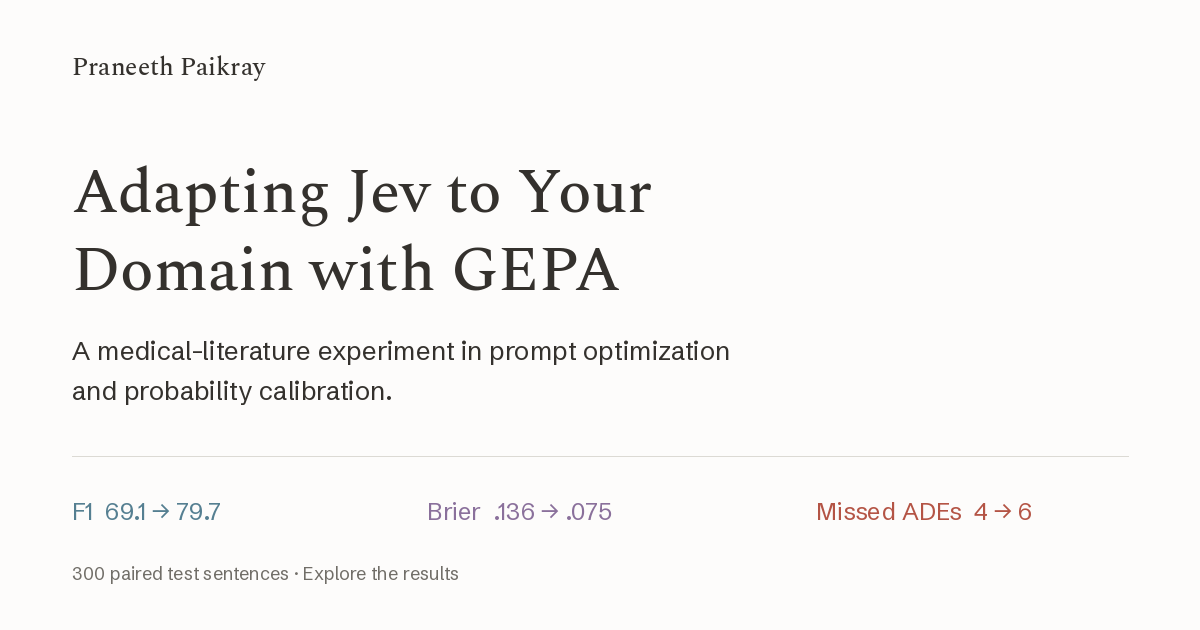
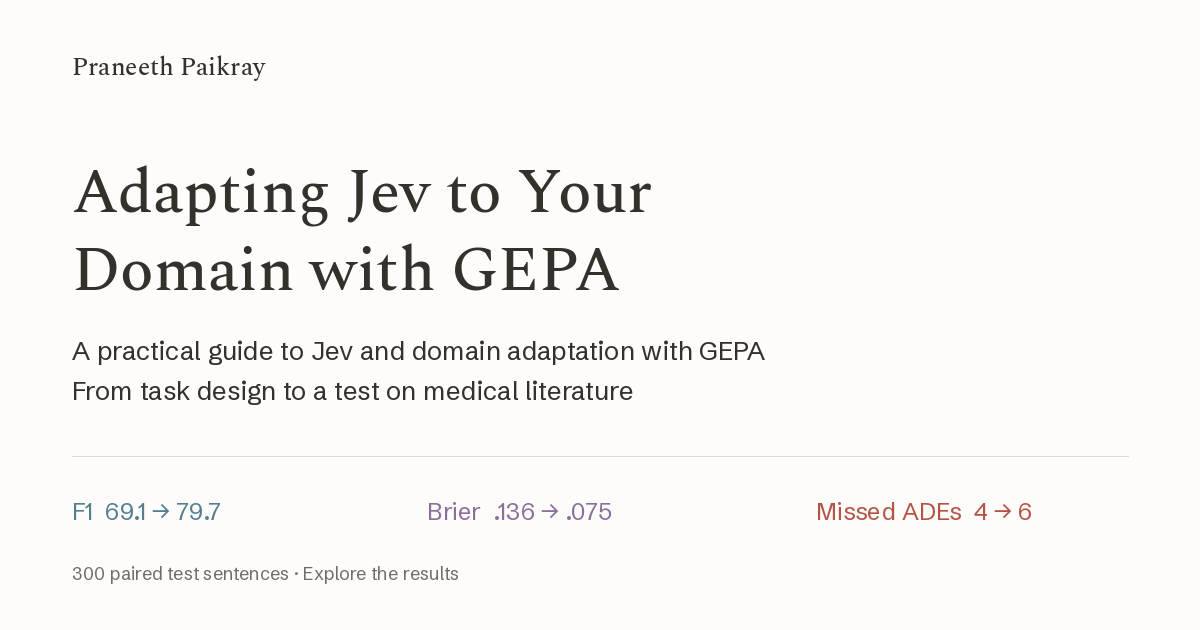
Add open article contents, section dividers, and broader Jev subtitle
Make the contents list visible on mobile and desktop with concise section links. Add subtle rules between sections, and frame the subtitle around Jev and domain adaptation with medical literature as the test case. Keep the article, homepage, RSS, metadata, and sharing card consistent.

Verified the Astro build, mobile and desktop layout, all contents and citation targets, and nine interactive viewers.

Changed region(s): [[0.0925, 0.5429, 0.6475, 0.573], [0.0617, 0.6032, 0.5242, 0.6635]]

diff --git a/src/styles/global.css b/src/styles/global.css
@@ -1,8 +1,10 @@
 @import url('/fonts/fonts.css');
 :root{--paper:oklch(.992 .002 90);--panel:oklch(.999 .001 90);--panel-2:oklch(.967 .003 90);--ink:oklch(.25 .01 60);--ink-soft:oklch(.45 .008 62);--muted:oklch(.57 .007 65);--hair:oklch(.905 .004 80);--hair-2:oklch(.84 .005 80);--accent:oklch(.45 .055 220);--wash:oklch(.955 .016 218);--good:#4e8766;--bad:#b45445;--original:#557f91;--optimized:#8a709b;--baseline:#a2a5a4;--serif:'Spectral',Georgia,serif;--sans:'Schibsted Grotesk',system-ui,sans-serif;--mono:'Fragment Mono',ui-monospace,monospace;--measure:700px}
-*{box-sizing:border-box}html{scroll-behavior:smooth;scroll-padding-top:85px;-webkit-font-smoothing:antialiased;text-rendering:optimizeLegibility}body{margin:0;background:var(--paper);color:var(--ink);font:16px/1.6 var(--sans)}a{color:var(--accent);text-underline-offset:3px;text-decoration-thickness:1px}a:hover{color:var(--ink)}button,input,select{font:inherit}button,select,summary{cursor:pointer}button,input,select{border-radius:3px}button:disabled{cursor:default;opacity:.5}:focus-visible{outline:2px solid var(--accent);outline-offset:3px}::selection{background:var(--wash)}img,svg{max-width:100%}h1,h2,h3{font-family:var(--serif);font-weight:500;line-height:1.2;letter-spacing:-.025em}button{color:var(--ink);background:var(--panel);border:1px solid var(--hair-2);padding:7px 11px}button:hover{background:var(--wash)}code{font-family:var(--mono);font-size:.82em}.container{width:min(100% - 48px,var(--measure));margin-inline:auto}.site-header{position:sticky;top:0;z-index:30;border-bottom:1px solid var(--hair);background:color-mix(in oklch,var(--paper) 94%,transparent);backdrop-filter:blur(8px)}.header-inner{display:flex;align-items:center;justify-content:space-between;min-height:64px}.brand{font:500 20px var(--serif);color:var(--ink);text-decoration:none}.site-nav{display:flex;gap:22px;font-size:13px}.site-nav a{color:var(--ink-soft);text-decoration:none}.site-nav a[aria-current]{color:var(--ink)}#reading-progress{height:2px;width:0;position:absolute;bottom:-1px;background:var(--original)}.site-footer{width:min(100% - 48px,var(--measure));margin:70px auto 0;border-top:1px solid var(--hair);padding:28px 0 40px;display:flex;justify-content:space-between;gap:20px;font:11px/1.7 var(--mono);color:var(--muted)}.site-footer nav{display:flex;gap:18px}.site-footer p{margin:0}.skip-link{position:fixed;left:12px;top:-60px;z-index:90;background:white;padding:8px 12px}.skip-link:focus{top:8px}.home{padding-top:82px;min-height:calc(100vh - 237px)}.home h1{font-size:37px;margin:0 0 22px}.intro{font:20px/1.7 var(--serif);max-width:650px}.intro p{margin:0 0 16px}.intro-links{font:13px var(--sans);display:flex;gap:20px;margin-top:26px}.writing-list{margin-top:70px}.section-label{font:11px var(--mono);letter-spacing:.06em;text-transform:uppercase;color:var(--muted);margin-bottom:20px}.post-link{display:block;border-top:1px solid var(--hair);border-bottom:1px solid var(--hair);padding:24px 0;text-decoration:none;color:inherit}.post-link h2{font-size:25px;margin:0 0 9px}.post-link p{font:16px/1.6 var(--serif);color:var(--ink-soft);margin:0 0 14px}.post-link .meta{font:11px var(--mono);color:var(--muted)}.post-link:hover h2{color:var(--accent)}.article-header{padding-top:58px;margin-bottom:34px}.article-header h1{font-size:clamp(34px,4.5vw,48px);line-height:1.12;margin:0 0 18px;max-width:690px}.article-deck{font:italic 21px/1.5 var(--serif);color:var(--ink-soft);margin:0 0 23px}.article-meta{display:flex;gap:9px 18px;flex-wrap:wrap;font:11px/1.7 var(--mono);color:var(--muted)}.article-links{display:flex;gap:18px;flex-wrap:wrap;font:12px var(--sans);margin-top:19px}.contents{padding:14px 0;border-top:1px solid var(--hair);border-bottom:1px solid var(--hair);margin:28px 0}.contents summary{font:12px var(--mono);color:var(--ink-soft)}.contents ul{columns:2;column-gap:34px;list-style:none;padding:0;margin:16px 0 0}.contents li{font:13px/1.5 var(--sans);margin:0 0 9px;break-inside:avoid}.contents a{text-decoration:none}.prose{font:19px/1.7 var(--serif);display:grid;grid-template-columns:[full-start] minmax(24px,1fr) [content-start] min(var(--measure),100% - 48px) [content-end] minmax(24px,1fr) [full-end];max-width:none}.prose>*{grid-column:content;min-width:0}.prose p{margin:0 0 19px}.prose h2{font-size:29px;margin:46px 0 18px;scroll-margin-top:85px}.prose h3{font-size:23px;margin:28px 0 12px}.prose ul,.prose ol{padding-left:25px}.prose blockquote{margin:8px 0 26px;padding:0 0 0 22px;border-left:2px solid var(--optimized);font-style:italic;color:var(--ink-soft)}.prose blockquote p{margin:0}.prose pre{background:var(--panel-2);border:1px solid var(--hair);padding:20px 22px;overflow:auto;font:13px/1.7 var(--mono);margin:8px 0 24px;border-radius:2px}.prose pre code{font:inherit}.prose :not(pre)>code{background:var(--panel-2);border:1px solid var(--hair);border-radius:2px;padding:1px 4px;overflow-wrap:anywhere}.codehilite pre{margin:0}.codehilite{margin:6px 0 26px;min-width:0}.table-wrap{overflow:auto;margin:6px 0 13px}.prose table{width:100%;border-collapse:collapse;font:12px/1.6 var(--sans)}.prose th{font:10px/1.5 var(--mono);text-transform:uppercase;letter-spacing:.025em;text-align:left;padding:8px 12px 10px 0;border-bottom:1px solid var(--hair-2);color:var(--muted)}.prose td{padding:10px 12px 10px 0;border-bottom:1px solid var(--hair);vertical-align:top;color:var(--ink-soft)}.prose td:not(:first-child){font-variant-numeric:tabular-nums}.prose figure{margin:15px 0 25px}.prose figure.breakout,.prose .interactive{grid-column:full;width:min(960px,100% - 32px);justify-self:center}.prose figure img{display:block;width:100%;height:auto}.prose figure.diagram{max-width:900px}.figure-tools{display:flex;justify-content:flex-end;gap:18px;font:11px var(--mono);padding:7px 0}.caption{font:12px/1.65 var(--sans);color:var(--ink-soft);margin:0 0 25px!important}.caption em{font-style:normal}.interactive{border:1px solid var(--hair);background:var(--panel);margin:18px 0 28px;font:14px/1.5 var(--sans);border-radius:3px}.interactive:empty{display:none}.widget-head{display:flex;align-items:baseline;justify-content:space-between;gap:20px;padding:18px 22px 14px;border-bottom:1px solid var(--hair)}.widget-head h3{font:500 15px var(--sans);letter-spacing:0;margin:0}.widget-head span,.widget-note,.micro{font:11px/1.65 var(--mono);color:var(--muted)}.widget-note{padding:13px 22px;border-top:1px solid var(--hair);margin:0!important}.widget-body{padding:20px 22px}.controls{display:flex;flex-wrap:wrap;gap:14px;align-items:flex-end;margin-bottom:18px}.controls label{display:flex;flex-direction:column;gap:6px;font:10px var(--mono);color:var(--muted)}.controls input,.controls select{font:12px var(--sans);color:var(--ink);border:1px solid var(--hair-2);padding:8px 9px;background:var(--panel);max-width:100%}.controls input[type=search]{min-width:210px}.controls .grow{flex:1}.controls input[type=range]{padding:0;accent-color:var(--original);min-width:200px}.tab-row{display:flex;gap:4px;flex-wrap:wrap}.tab-row button{font:11px var(--mono);border-color:transparent;background:transparent;padding:6px 9px}.tab-row button[aria-pressed=true]{border-color:var(--hair-2);background:var(--panel-2);color:var(--ink)}.browser{display:grid;grid-template-columns:285px minmax(0,1fr);border-top:1px solid var(--hair);min-height:330px}.browser-list{border-right:1px solid var(--hair);max-height:385px;overflow:auto}.browser-row{display:block;text-align:left;width:100%;border:0;border-bottom:1px solid var(--hair);border-radius:0;padding:12px 15px;font:12px/1.55 var(--sans);background:transparent}.browser-row[aria-pressed=true]{background:var(--wash);box-shadow:inset 3px 0 var(--original)}.browser-row small{display:block;font:10px var(--mono);color:var(--muted);margin-top:5px}.browser-row .badge{float:right}.browser-detail{padding:22px;min-width:0}.badge{font:10px var(--mono);border:1px solid var(--hair-2);border-radius:3px;padding:2px 6px;color:var(--ink-soft)}.badge.positive{color:var(--bad);border-color:#d6aea8}.sentence{font:20px/1.6 var(--serif);min-height:70px;margin:19px 0!important;overflow-wrap:anywhere}.source-status{font:11px var(--sans);color:var(--muted)}.source-link{font:11px var(--sans)}.pagination{display:flex;justify-content:space-between;align-items:center;gap:10px;padding:12px 20px;border-top:1px solid var(--hair);font:11px var(--mono)}.pagination button{font:11px var(--mono)}.kv-grid{display:grid;grid-template-columns:repeat(2,minmax(0,1fr));gap:15px;margin:20px 0}.kv-grid dt{font:10px/1.5 var(--mono);color:var(--muted)}.kv-grid dd{font:21px/1.4 var(--sans);margin:5px 0 0;font-variant-numeric:tabular-nums}.kv-grid .hash{font:10px/1.6 var(--mono);overflow-wrap:anywhere}.plot-scroll{overflow:auto;max-width:100%}.plot{width:100%;min-width:530px;display:block;font-family:var(--mono);font-size:11px;color:var(--muted);overflow:visible}.plot .grid{stroke:var(--hair);stroke-width:1}.plot .axis{stroke:var(--hair-2);stroke-width:1}.plot text{fill:var(--muted)}.plot .value{fill:var(--ink)}.plot-point{cursor:pointer;outline:none}.plot-point:focus,.plot-point:hover{stroke:var(--ink);stroke-width:3}.plot-readout{font:11px/1.6 var(--mono);min-height:38px;padding:9px 12px;background:var(--panel-2);color:var(--ink-soft);margin-top:8px}.legend{display:flex;gap:18px;flex-wrap:wrap;font:11px var(--sans);margin-bottom:18px}.legend span{display:inline-flex;align-items:center;gap:6px}.dot{width:8px;height:8px;border-radius:50%;display:inline-block}.stat-row{display:grid;grid-template-columns:repeat(3,1fr);gap:20px;padding:16px 0 24px}.stat-row strong{font:30px var(--serif);display:block;font-variant-numeric:tabular-nums;margin-bottom:4px}.stat-row span{font:11px var(--sans);color:var(--muted)}.stat-row .risk strong{color:var(--bad)}.bar-label{display:flex;justify-content:space-between;font:11px var(--sans);margin:16px 0 7px}.stack-bar{height:17px;display:flex;overflow:hidden;border-radius:2px;background:var(--panel-2)}.stack-bar i{height:100%;display:block}.prompt-grid{display:grid;grid-template-columns:1fr 1fr;gap:20px;margin-top:20px}.prompt-panel{border:1px solid var(--hair);padding:18px;min-width:0}.prompt-panel h4{font:11px var(--mono);margin:0 0 12px;color:var(--muted)}.prompt-panel p{font:14px/1.65 var(--serif);white-space:pre-wrap;margin:0 0 18px}.prompt-panel .prompt-label{font:10px var(--mono);color:var(--muted);margin-bottom:6px}.candidate-buttons{display:flex;flex-wrap:wrap;gap:7px;margin:12px 0}.candidate-buttons button{font:11px var(--mono)}.candidate-buttons button[aria-pressed=true]{border-color:var(--optimized);background:#f1edf3}.matrix-pair{display:grid;grid-template-columns:1fr 1fr;gap:32px;max-width:680px;margin:8px auto 22px}.matrix h4{font:12px var(--sans);text-align:center;margin:0 0 12px}.matrix-grid{display:grid;grid-template-columns:1fr 1fr;gap:3px}.matrix-grid button{border:0;font:27px var(--serif);padding:14px 8px;border-radius:1px;background:#eaf0ee;min-width:0}.matrix-grid button small{font:10px var(--sans);display:block;color:var(--ink-soft)}.matrix-grid .wrong{background:#f7eeeb}.matrix-grid button[aria-pressed=true]{outline:2px solid var(--ink)}.empty-state{padding:30px;font:14px var(--serif);color:var(--muted)}.source-warning{color:var(--bad)}.inline-link{font:11px var(--mono);background:transparent;border:0;text-decoration:underline;color:var(--accent);padding:4px 0}.two-column{display:grid;grid-template-columns:1fr 1fr;gap:30px}.not-found{padding-top:80px;min-height:60vh}dialog{border:1px solid var(--hair);width:min(1200px,95vw);max-height:95vh;padding:20px;background:var(--panel)}dialog::backdrop{background:#171d23aa}dialog img{display:block;width:100%}dialog .close{float:right;font:11px var(--mono);margin-bottom:10px}.download-note{font:12px var(--sans);padding:16px 0;border-top:1px solid var(--hair)}
+*{box-sizing:border-box}html{scroll-behavior:smooth;scroll-padding-top:85px;-webkit-font-smoothing:antialiased;text-rendering:optimizeLegibility}body{margin:0;background:var(--paper);color:var(--ink);font:16px/1.6 var(--sans)}a{color:var(--accent);text-underline-offset:3px;text-decoration-thickness:1px}a:hover{color:var(--ink)}button,input,select{font:inherit}button,select,summary{cursor:pointer}button,input,select{border-radius:3px}button:disabled{cursor:default;opacity:.5}:focus-visible{outline:2px solid var(--accent);outline-offset:3px}::selection{background:var(--wash)}img,svg{max-width:100%}h1,h2,h3{font-family:var(--serif);font-weight:500;line-height:1.2;letter-spacing:-.025em}button{color:var(--ink);background:var(--panel);border:1px solid var(--hair-2);padding:7px 11px}button:hover{background:var(--wash)}code{font-family:var(--mono);font-size:.82em}.container{width:min(100% - 48px,var(--measure));margin-inline:auto}.site-header{position:sticky;top:0;z-index:30;border-bottom:1px solid var(--hair);background:color-mix(in oklch,var(--paper) 94%,transparent);backdrop-filter:blur(8px)}.header-inner{display:flex;align-items:center;justify-content:space-between;min-height:64px}.brand{font:500 20px var(--serif);color:var(--ink);text-decoration:none}.site-nav{display:flex;gap:22px;font-size:13px}.site-nav a{color:var(--ink-soft);text-decoration:none}.site-nav a[aria-current]{color:var(--ink)}#reading-progress{height:2px;width:0;position:absolute;bottom:-1px;background:var(--original)}.site-footer{width:min(100% - 48px,var(--measure));margin:70px auto 0;border-top:1px solid var(--hair);padding:28px 0 40px;display:flex;justify-content:space-between;gap:20px;font:11px/1.7 var(--mono);color:var(--muted)}.site-footer nav{display:flex;gap:18px}.site-footer p{margin:0}.skip-link{position:fixed;left:12px;top:-60px;z-index:90;background:white;padding:8px 12px}.skip-link:focus{top:8px}.home{padding-top:82px;min-height:calc(100vh - 237px)}.home h1{font-size:37px;margin:0 0 22px}.intro{font:20px/1.7 var(--serif);max-width:650px}.intro p{margin:0 0 16px}.intro-links{font:13px var(--sans);display:flex;gap:20px;margin-top:26px}.writing-list{margin-top:70px}.section-label{font:11px var(--mono);letter-spacing:.06em;text-transform:uppercase;color:var(--muted);margin-bottom:20px}.post-link{display:block;border-top:1px solid var(--hair);border-bottom:1px solid var(--hair);padding:24px 0;text-decoration:none;color:inherit}.post-link h2{font-size:25px;margin:0 0 9px}.post-link p{font:16px/1.6 var(--serif);color:var(--ink-soft);margin:0 0 14px}.post-link .meta{font:11px var(--mono);color:var(--muted)}.post-link:hover h2{color:var(--accent)}.article-header{padding-top:58px;margin-bottom:34px}.article-header h1{font-size:clamp(34px,4.5vw,48px);line-height:1.12;margin:0 0 18px;max-width:690px}.article-deck{font:italic 21px/1.5 var(--serif);color:var(--ink-soft);margin:0 0 23px}.article-meta{display:flex;gap:9px 18px;flex-wrap:wrap;font:11px/1.7 var(--mono);color:var(--muted)}.article-links{display:flex;gap:18px;flex-wrap:wrap;font:12px var(--sans);margin-top:19px}.contents{padding:27px 0 29px;border-top:1px solid var(--hair);border-bottom:1px solid var(--hair);margin:32px 0 0}.contents-label{font:11px/1.5 var(--mono);letter-spacing:.08em;text-transform:uppercase;color:var(--muted);margin:0 0 17px}.contents ul{list-style:none;padding:0;margin:0;display:grid;gap:4px}.contents li{font:16px/1.5 var(--sans);margin:0}.contents a{display:block;width:fit-content;max-width:100%;padding:5px 0;text-decoration:none;color:var(--ink-soft)}.contents a:hover,.contents a:focus-visible{color:var(--accent);text-decoration:underline}.prose{font:19px/1.7 var(--serif);display:grid;grid-template-columns:[full-start] minmax(24px,1fr) [content-start] min(var(--measure),100% - 48px) [content-end] minmax(24px,1fr) [full-end];max-width:none}.prose>*{grid-column:content;min-width:0}.prose p{margin:0 0 19px}.prose h2{font-size:29px;margin:46px 0 18px;scroll-margin-top:85px}.prose h3{font-size:23px;margin:28px 0 12px}.prose ul,.prose ol{padding-left:25px}.prose blockquote{margin:8px 0 26px;padding:0 0 0 22px;border-left:2px solid var(--optimized);font-style:italic;color:var(--ink-soft)}.prose blockquote p{margin:0}.prose pre{background:var(--panel-2);border:1px solid var(--hair);padding:20px 22px;overflow:auto;font:13px/1.7 var(--mono);margin:8px 0 24px;border-radius:2px}.prose pre code{font:inherit}.prose :not(pre)>code{background:var(--panel-2);border:1px solid var(--hair);border-radius:2px;padding:1px 4px;overflow-wrap:anywhere}.codehilite pre{margin:0}.codehilite{margin:6px 0 26px;min-width:0}.table-wrap{overflow:auto;margin:6px 0 13px}.prose table{width:100%;border-collapse:collapse;font:12px/1.6 var(--sans)}.prose th{font:10px/1.5 var(--mono);text-transform:uppercase;letter-spacing:.025em;text-align:left;padding:8px 12px 10px 0;border-bottom:1px solid var(--hair-2);color:var(--muted)}.prose td{padding:10px 12px 10px 0;border-bottom:1px solid var(--hair);vertical-align:top;color:var(--ink-soft)}.prose td:not(:first-child){font-variant-numeric:tabular-nums}.prose figure{margin:15px 0 25px}.prose figure.breakout,.prose .interactive{grid-column:full;width:min(960px,100% - 32px);justify-self:center}.prose figure img{display:block;width:100%;height:auto}.prose figure.diagram{max-width:900px}.figure-tools{display:flex;justify-content:flex-end;gap:18px;font:11px var(--mono);padding:7px 0}.caption{font:12px/1.65 var(--sans);color:var(--ink-soft);margin:0 0 25px!important}.caption em{font-style:normal}.interactive{border:1px solid var(--hair);background:var(--panel);margin:18px 0 28px;font:14px/1.5 var(--sans);border-radius:3px}.interactive:empty{display:none}.widget-head{display:flex;align-items:baseline;justify-content:space-between;gap:20px;padding:18px 22px 14px;border-bottom:1px solid var(--hair)}.widget-head h3{font:500 15px var(--sans);letter-spacing:0;margin:0}.widget-head span,.widget-note,.micro{font:11px/1.65 var(--mono);color:var(--muted)}.widget-note{padding:13px 22px;border-top:1px solid var(--hair);margin:0!important}.widget-body{padding:20px 22px}.controls{display:flex;flex-wrap:wrap;gap:14px;align-items:flex-end;margin-bottom:18px}.controls label{display:flex;flex-direction:column;gap:6px;font:10px var(--mono);color:var(--muted)}.controls input,.controls select{font:12px var(--sans);color:var(--ink);border:1px solid var(--hair-2);padding:8px 9px;background:var(--panel);max-width:100%}.controls input[type=search]{min-width:210px}.controls .grow{flex:1}.controls input[type=range]{padding:0;accent-color:var(--original);min-width:200px}.tab-row{display:flex;gap:4px;flex-wrap:wrap}.tab-row button{font:11px var(--mono);border-color:transparent;background:transparent;padding:6px 9px}.tab-row button[aria-pressed=true]{border-color:var(--hair-2);background:var(--panel-2);color:var(--ink)}.browser{display:grid;grid-template-columns:285px minmax(0,1fr);border-top:1px solid var(--hair);min-height:330px}.browser-list{border-right:1px solid var(--hair);max-height:385px;overflow:auto}.browser-row{display:block;text-align:left;width:100%;border:0;border-bottom:1px solid var(--hair);border-radius:0;padding:12px 15px;font:12px/1.55 var(--sans);background:transparent}.browser-row[aria-pressed=true]{background:var(--wash);box-shadow:inset 3px 0 var(--original)}.browser-row small{display:block;font:10px var(--mono);color:var(--muted);margin-top:5px}.browser-row .badge{float:right}.browser-detail{padding:22px;min-width:0}.badge{font:10px var(--mono);border:1px solid var(--hair-2);border-radius:3px;padding:2px 6px;color:var(--ink-soft)}.badge.positive{color:var(--bad);border-color:#d6aea8}.sentence{font:20px/1.6 var(--serif);min-height:70px;margin:19px 0!important;overflow-wrap:anywhere}.source-status{font:11px var(--sans);color:var(--muted)}.source-link{font:11px var(--sans)}.pagination{display:flex;justify-content:space-between;align-items:center;gap:10px;padding:12px 20px;border-top:1px solid var(--hair);font:11px var(--mono)}.pagination button{font:11px var(--mono)}.kv-grid{display:grid;grid-template-columns:repeat(2,minmax(0,1fr));gap:15px;margin:20px 0}.kv-grid dt{font:10px/1.5 var(--mono);color:var(--muted)}.kv-grid dd{font:21px/1.4 var(--sans);margin:5px 0 0;font-variant-numeric:tabular-nums}.kv-grid .hash{font:10px/1.6 var(--mono);overflow-wrap:anywhere}.plot-scroll{overflow:auto;max-width:100%}.plot{width:100%;min-width:530px;display:block;font-family:var(--mono);font-size:11px;color:var(--muted);overflow:visible}.plot .grid{stroke:var(--hair);stroke-width:1}.plot .axis{stroke:var(--hair-2);stroke-width:1}.plot text{fill:var(--muted)}.plot .value{fill:var(--ink)}.plot-point{cursor:pointer;outline:none}.plot-point:focus,.plot-point:hover{stroke:var(--ink);stroke-width:3}.plot-readout{font:11px/1.6 var(--mono);min-height:38px;padding:9px 12px;background:var(--panel-2);color:var(--ink-soft);margin-top:8px}.legend{display:flex;gap:18px;flex-wrap:wrap;font:11px var(--sans);margin-bottom:18px}.legend span{display:inline-flex;align-items:center;gap:6px}.dot{width:8px;height:8px;border-radius:50%;display:inline-block}.stat-row{display:grid;grid-template-columns:repeat(3,1fr);gap:20px;padding:16px 0 24px}.stat-row strong{font:30px var(--serif);display:block;font-variant-numeric:tabular-nums;margin-bottom:4px}.stat-row span{font:11px var(--sans);color:var(--muted)}.stat-row .risk strong{color:var(--bad)}.bar-label{display:flex;justify-content:space-between;font:11px var(--sans);margin:16px 0 7px}.stack-bar{height:17px;display:flex;overflow:hidden;border-radius:2px;background:var(--panel-2)}.stack-bar i{height:100%;display:block}.prompt-grid{display:grid;grid-template-columns:1fr 1fr;gap:20px;margin-top:20px}.prompt-panel{border:1px solid var(--hair);padding:18px;min-width:0}.prompt-panel h4{font:11px var(--mono);margin:0 0 12px;color:var(--muted)}.prompt-panel p{font:14px/1.65 var(--serif);white-space:pre-wrap;margin:0 0 18px}.prompt-panel .prompt-label{font:10px var(--mono);color:var(--muted);margin-bottom:6px}.candidate-buttons{display:flex;flex-wrap:wrap;gap:7px;margin:12px 0}.candidate-buttons button{font:11px var(--mono)}.candidate-buttons button[aria-pressed=true]{border-color:var(--optimized);background:#f1edf3}.matrix-pair{display:grid;grid-template-columns:1fr 1fr;gap:32px;max-width:680px;margin:8px auto 22px}.matrix h4{font:12px var(--sans);text-align:center;margin:0 0 12px}.matrix-grid{display:grid;grid-template-columns:1fr 1fr;gap:3px}.matrix-grid button{border:0;font:27px var(--serif);padding:14px 8px;border-radius:1px;background:#eaf0ee;min-width:0}.matrix-grid button small{font:10px var(--sans);display:block;color:var(--ink-soft)}.matrix-grid .wrong{background:#f7eeeb}.matrix-grid button[aria-pressed=true]{outline:2px solid var(--ink)}.empty-state{padding:30px;font:14px var(--serif);color:var(--muted)}.source-warning{color:var(--bad)}.inline-link{font:11px var(--mono);background:transparent;border:0;text-decoration:underline;color:var(--accent);padding:4px 0}.two-column{display:grid;grid-template-columns:1fr 1fr;gap:30px}.not-found{padding-top:80px;min-height:60vh}dialog{border:1px solid var(--hair);width:min(1200px,95vw);max-height:95vh;padding:20px;background:var(--panel)}dialog::backdrop{background:#171d23aa}dialog img{display:block;width:100%}dialog .close{float:right;font:11px var(--mono);margin-bottom:10px}.download-note{font:12px var(--sans);padding:16px 0;border-top:1px solid var(--hair)}
 @media(max-width:700px){.container{width:calc(100% - 40px)}.header-inner{min-height:58px}.brand{font-size:18px}.site-nav{gap:15px;font-size:12px}.home{padding-top:48px}.home h1{font-size:32px}.intro{font-size:19px}.writing-list{margin-top:46px}.article-header{padding-top:38px}.article-deck{font-size:19px}.article-header h1{font-size:35px}.prose{font-size:18px;grid-template-columns:[full-start] 20px [content-start] minmax(0,1fr) [content-end] 20px [full-end]}.prose h2{font-size:26px}.prose figure.breakout,.prose .interactive{width:calc(100% - 20px)}.contents ul{columns:1}.widget-head{padding:15px;display:block}.widget-head span{display:block;margin-top:6px}.widget-body{padding:16px 14px}.widget-note{padding:12px 14px;font-size:10px}.browser{grid-template-columns:1fr}.browser-list{border-right:0;border-bottom:1px solid var(--hair);max-height:170px}.browser-detail{padding:18px}.browser-row{padding:10px 14px}.prompt-grid,.two-column{grid-template-columns:1fr;gap:14px}.controls{gap:10px}.controls input[type=search]{min-width:0;width:100%}.controls .grow{flex-basis:100%}.matrix-pair{gap:14px}.matrix-grid button{font-size:23px;padding:11px 6px}.matrix-grid button small{font-size:9px}.stat-row{gap:14px}.stat-row strong{font-size:27px}.site-footer{display:block;width:calc(100% - 40px)}.site-footer nav{margin-top:14px}.prose pre{font-size:12px;padding:16px}.article-meta{font-size:10px}.sentence{font-size:19px}.prose table{min-width:570px}.prose .caption{font-size:11px}}
 @media(prefers-reduced-motion:reduce){html{scroll-behavior:auto}*{transition:none!important}}
 @media print{.site-header,.site-footer,.contents,.figure-tools,.controls,.candidate-buttons,.pagination,.browser-list{display:none}.prose{display:block;font-size:11pt;line-height:1.5}.prose>*{width:100%!important}.prose h2{font-size:19pt}.article-header{padding-top:0}.interactive{break-inside:avoid}.plot{min-width:0}.browser{display:block}.widget-note{font-size:8pt}.article-links{display:none}}
 
 .prose .citation{font:12px var(--sans);white-space:nowrap;text-decoration:none}.prose .references{border-top:1px solid var(--hair);margin-top:28px}.prose .references h2{margin-top:30px}.prose .references ol{font:14px/1.7 var(--sans);padding-left:28px;margin-top:22px}.prose .references li{padding-left:6px;margin-bottom:16px;overflow-wrap:anywhere}.prose .references li::marker{font:11px var(--mono);color:var(--muted)}.prose .references li p{margin:0}.prose .references [id]{scroll-margin-top:100px}.prose .references li:has(:target){background:var(--wash);outline:6px solid var(--wash)}
+
+.prose>h2{border-top:1px solid var(--hair);padding-top:32px;margin-top:34px}@media(max-width:700px){.contents{padding-block:25px}.contents li{font-size:16px}.prose>h2{padding-top:28px;margin-top:28px}}

diff --git a/src/pages/rss.xml.js b/src/pages/rss.xml.js
@@ -1,2 +1,3 @@
+import metadata from '../generated/article-meta.json';
 import rss from '@astrojs/rss';
-export async function GET(context){return rss({title:'Praneeth Paikray',description:'Experiments and explanations on building AI systems.',site:context.site,items:[{title:'Adapting Jev to Your Domain with GEPA',description:'A medical-literature experiment in prompt optimization, confident mistakes, and review workload.',pubDate:new Date('2026-09-20T00:00:00Z'),link:'/blog/adapting-jev-with-gepa/',categories:['Jev','GEPA','Evaluation']} ]});}
+export async function GET(context){return rss({title:'Praneeth Paikray',description:'Experiments and explanations on building AI systems.',site:context.site,items:[{title:'Adapting Jev to Your Domain with GEPA',description:metadata.subtitle,pubDate:new Date('2026-09-20T00:00:00Z'),link:'/blog/adapting-jev-with-gepa/',categories:['Jev','GEPA','Evaluation']} ]});}

diff --git a/scripts/compile_article.py b/scripts/compile_article.py
@@ -1,8 +1,9 @@
 from pathlib import Path
-import re,json,math
+import re,json,math,html
 import markdown
 root=Path(__file__).resolve().parents[1]
 s=(root/'src/content/jev-article.md').read_text()
+subtitle=s.split('\n\n',3)[1].strip('*')
 # The page layout owns the title, subtitle, and byline.
 s=s.split('\n\n',3)[3]
 md=markdown.Markdown(extensions=['tables','fenced_code','codehilite','toc'],extension_configs={'codehilite':{'guess_lang':False}})
@@ -23,7 +24,16 @@ for name,kind in [('dataset','dataset'),('prompts','prompts'),('routing2','routi
  body=body.replace(f'<!-- explorer:{name} -->',f'<div class="interactive" data-jev="{kind}"'+(' data-stage="2"' if name=='routing2' else '')+'><noscript><p class="widget-note">Enable JavaScript to explore the saved study records. Numerical results are in the adjacent tables.</p></noscript></div>')
 body=body.replace('<h2 id="references">References</h2>','<section class="references" aria-labelledby="references"><h2 id="references">References</h2>')+'</section>'
 (root/'src/generated/article.html').write_text(body)
-(root/'src/generated/contents.html').write_text(md.toc)
-(root/'src/generated/article-meta.json').write_text(json.dumps({'readingMinutes':math.ceil(len(s.split('## References')[0].split())/220)})+'\n')
+contents_labels=[
+ 'What Jev is', 'Defining a decision', 'Confidence and calibration',
+ 'The dataset and baseline', 'Baseline results', 'Inspecting confident errors',
+ 'Setting a review threshold', 'Adapting Jev with GEPA', 'Data splits and objective',
+ 'The selected prompt', 'Fresh-test results', 'The review trade-off',
+ 'Latency and cost', 'Lessons for a domain workflow', 'Reproduce the experiments', 'References',
+]
+assert len(md.toc_tokens)==len(contents_labels)
+contents='<ul>\n'+''.join(f'<li><a href="#{html.escape(section["id"])}">{html.escape(label)}</a></li>\n' for section,label in zip(md.toc_tokens,contents_labels))+'</ul>\n'
+(root/'src/generated/contents.html').write_text(contents)
+(root/'src/generated/article-meta.json').write_text(json.dumps({'readingMinutes':math.ceil(len(s.split('## References')[0].split())/220),'subtitle':subtitle})+'\n')
 assert body.count('data-jev=')==9
 print('Compiled article with nine interactive views')

diff --git a/scripts/draw_share_card.py b/scripts/draw_share_card.py
@@ -8,8 +8,8 @@ def text(x,y,s,size=22,font='type-02.ttf',fill='#34312d'):
 text(72,48,'Praneeth Paikray',25,'type-07.ttf')
 text(72,146,'Adapting Jev to Your',62,'type-07.ttf')
 text(72,224,'Domain with GEPA',62,'type-07.ttf')
-text(72,334,'A medical-literature experiment in prompt optimization',26)
-text(72,374,'and probability calibration.',26)
+text(72,334,'A practical guide to Jev and domain adaptation with GEPA',26)
+text(72,374,'From task design to a test on medical literature',26)
 d.line((72,456,1128,456),fill='#dcdad4',width=1)
 text(72,496,'F1  69.1 → 79.7',24,fill='#557f91')
 text(427,496,'Brier  .136 → .075',24,fill='#8a709b')

diff --git a/src/content/jev-article.md b/src/content/jev-article.md
@@ -1,6 +1,6 @@
 # Adapting Jev to Your Domain with GEPA
 
-*A medical-literature experiment in prompt optimization, probability calibration, and the cost of missing a relevant sentence.*
+*A practical guide to Jev and domain adaptation with GEPA, from defining the task to measuring results on medical literature.*
 
 Praneeth Paikray · September 20, 2026 · Experiments run September 19
 
